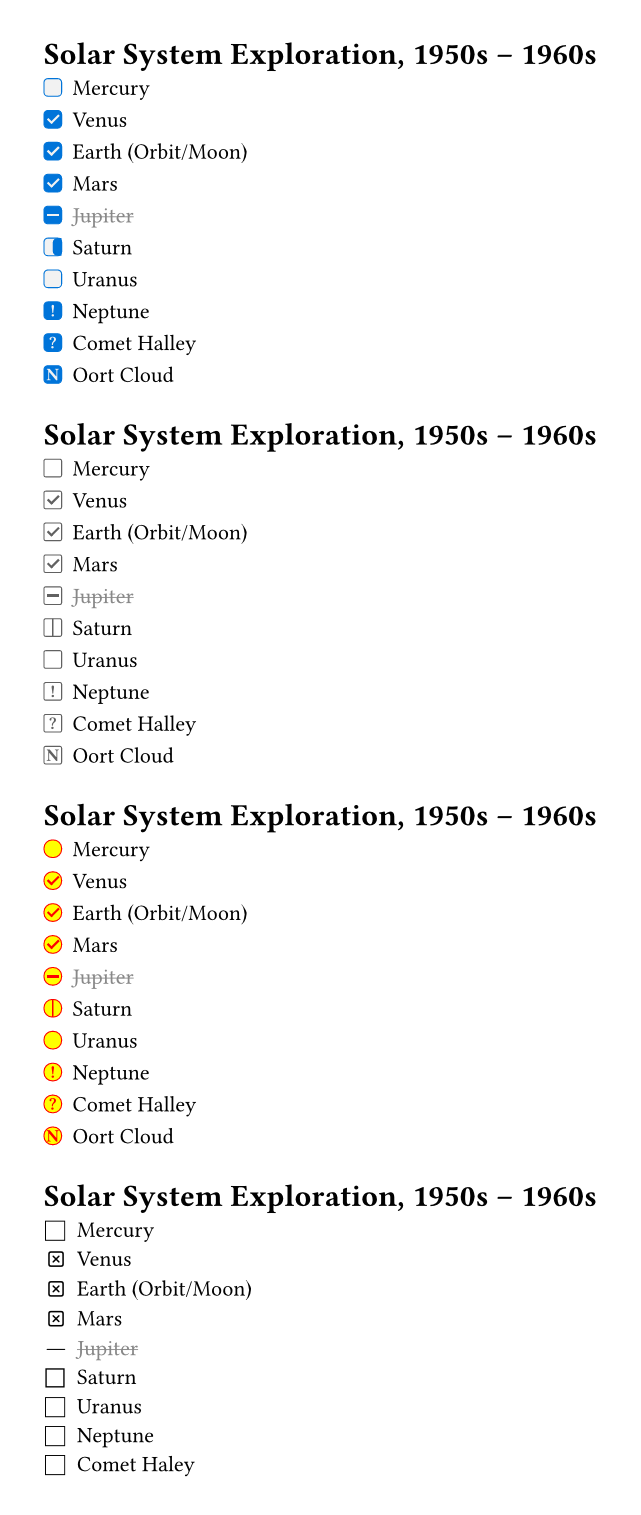
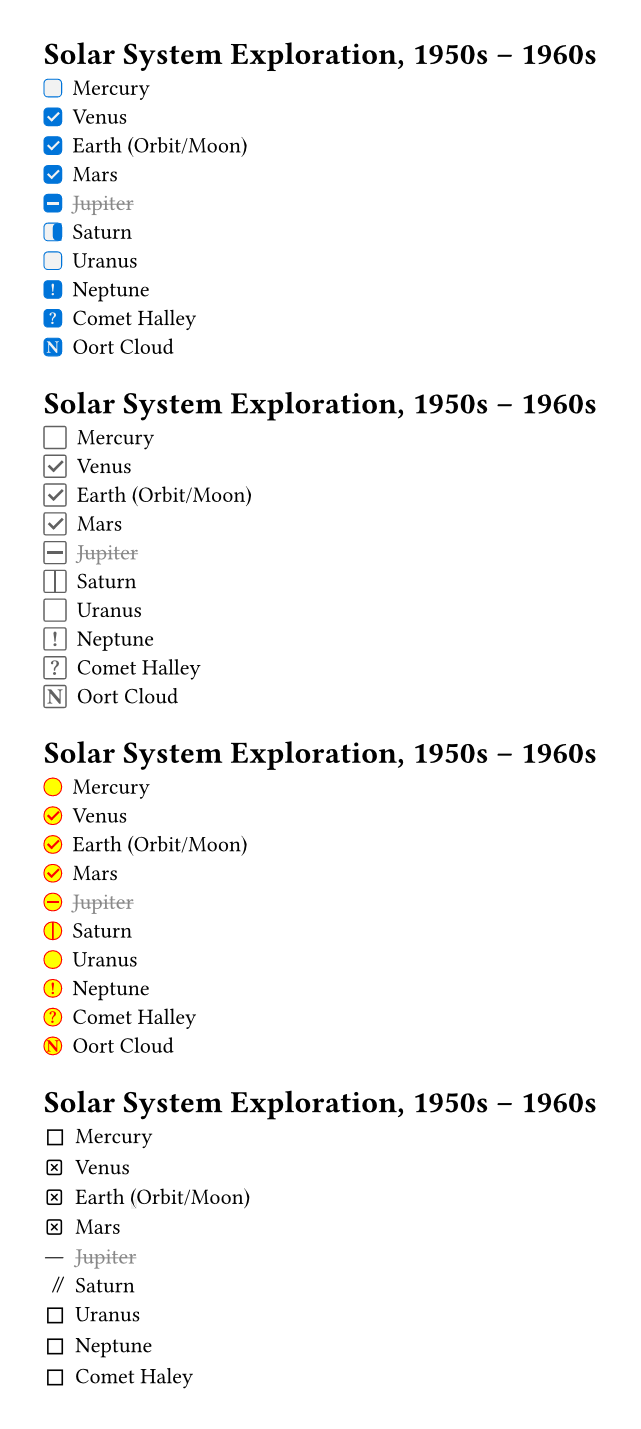
docs: documented size parameter and outline creation

diff --git a/README.md b/README.md
@@ -76,7 +76,7 @@ Cheq has 4 predefined symbols:[ ], [x], [/], [-]. If you put any other charachte
 - [?] Comet Halley
 - [N] Oort Cloud
 
-#show: checklist.with(light: true)
+#show: checklist.with(light: true, size: 1em)
 
 = Solar System Exploration, 1950s – 1960s
 
@@ -124,7 +124,7 @@ Cheq has 4 predefined symbols:[ ], [x], [/], [-]. If you put any other charachte
 
 ![Example](./examples/custom-styles.png)
 
-## Custom Hihlightd Of List Items
+## Custom Highlight Of List Items
 
 ```typ
 #import "@preview/cheq:0.3.0": checklist
@@ -170,6 +170,40 @@ Cheq has 4 predefined symbols:[ ], [x], [/], [-]. If you put any other charachte
 ![Example](./examples/highlight-items.png)
 
 
+## Outlines
+
+You can create an outline for all items with the same symbol. Just specify the "kind" of figure in the outline as "cheq-" + the character of the items you want to collect.
+
+```typ
+#import "@preview/cheq:0.3.0": checklist
+#show: checklist
+
+#set page(width: 5in, height: auto, margin: 2em)
+
+
+#outline(title: [Visited], target: figure.where(kind: "cheq-x"))
+
+#outline(title: [Incomplete], target: figure.where(kind: "cheq-/"))
+
+
+
+= Solar System Exploration, 1950s – 1960s
+
+- [ ] Mercury
+- [x] Venus
+- [x] Earth (Orbit/Moon)
+- [x] Mars
+- [-] Jupiter
+- [/] Saturn
+- [ ] Uranus
+- [!] Neptune
+- [?] Comet Halley
+- [N] Oort Cloud
+```
+
+![Example](./examples/outline-items.png)
+
+
 ## `checklist` function
 
 ```typ
@@ -178,6 +212,7 @@ Cheq has 4 predefined symbols:[ ], [x], [/], [-]. If you put any other charachte
   stroke: rgb("#616161"),
   radius: .1em,
   light: false, 
+  size: 0.8em,
   marker-map: (:),
   highlight-map: (:),
   highlight: true,
@@ -192,6 +227,7 @@ Cheq has 4 predefined symbols:[ ], [x], [/], [-]. If you put any other charachte
 - `stroke`: [`string`] &mdash; The stroke color for the checklist marker.
 - `radius`: [`string`] &mdash; The radius of the checklist marker.
 - `light`: [`bool'] &mdash; The style of the markers, light or dark.
+- `size`: [`length`] &mdash; The size of the checklist symbols
 - `marker-map`: [`map`] &mdash; The map of the checklist marker. It should be a map of character to symbol function, such as `(" ": sym.ballot, "x": sym.ballot.cross, "-": sym.bar.h, "/": sym.slash.double)`.
 - `highlight-map`: [`map`] &mdash; The map of the highlight functions. It should be a map of characther to functions, see examples.
 - `highlight`: [`bool`] &mdash; The flag to enable or disable the application of highlight functions to the list item.
